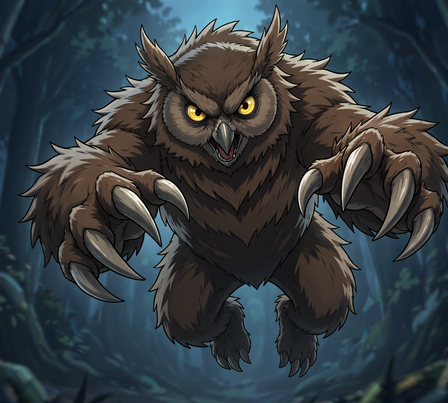
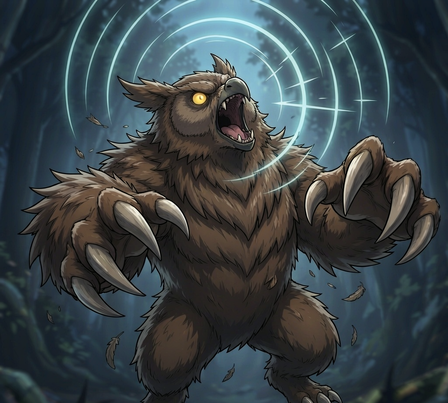
R519q 枭熊之怒改咆哮+声音特效

diff --git a/art_src/2026-11-08_敌人卡图寒霜枭熊R519p/tools/process_r519p.py b/art_src/2026-11-08_敌人卡图寒霜枭熊R519p/tools/process_r519p.py
@@ -38,8 +38,8 @@ TARGET = (448, 403)
 JOBS = {
     "9210": {"raw": "9210_frost_ward.png", "crop": (0, 55, 1024, 976),
              "wm": (760, 890, 1024, 1024)},   # 文字 y≈895 起，框上移到 890 覆盖顶部
-    "9212": {"raw": "9212_owlbear_fury.png", "crop": (0, 15, 1024, 936),
-             "wm": (872, 948, 1024, 1024)},   # 裁切底 936 已避开，无需修补
+    "9212": {"raw": "9212_owlbear_roar_v2.png", "crop": (0, 0, 1024, 921),
+             "wm": (872, 948, 1024, 1024)},   # 咆哮版v2：声波加粗醒目+身体完整，保声波，水印(y≥955)被裁掉，无需修补
 }
 
 

diff --git a/art_src/2026-11-08_敌人卡图寒霜枭熊R519p/README.md b/art_src/2026-11-08_敌人卡图寒霜枭熊R519p/README.md
@@ -15,17 +15,24 @@
 
 ## 9212 枭熊之怒（金 · 枭熊本能）
 
-- image1 = `assets/pics/9214.png`（敌方枭熊形象，只借角色设计，`input_fidelity=low`），
-  改赛璐璐 + 发怒扑击姿态（张嘴嘶吼、耳羽炸开、黄眼发光、前爪挥击）。
-- 裁切 `(0,15,1024,936)` → 448×403；水印在 y≈944 起，裁切底 936 已完全避开，无需修补。
+- 初版（R519p）：image1 = `assets/pics/9214.png`（敌方枭熊形象，只借角色设计），改赛璐璐 +
+  发怒扑击姿态（张嘴嘶吼、耳羽炸开、黄眼发光、前爪挥击）。裁 `(0,15,1024,936)`。
+- **R519q 咆哮版 v2（当前）**：用户反馈「做成枭熊在咆哮的状态，最好有声音特效」。
+  image1 = 初版 `raw/9212_owlbear_fury.png` 只借角色 + 画风（`input_fidelity=low`），
+  重出「仰头张嘴咆哮」，并从喙口放射**加粗高对比青白同心声波环 + 音浪弧 + 速度线**，
+  把「声音」视觉化。第一版咆哮（`9212_owlbear_roar.png`）声波太细、后脚掌贴底、
+  图鉴小卡不明显 → 弃用；第二版（`9212_owlbear_roar_v2.png`）声波加粗、四爪完整、
+  脚掌底 y≈961。裁 `(0,0,1024,921)` 保声波（声波外圈本已贴顶，属放射特效自然效果），
+  水印 y≥955 被裁掉，无需修补。
 
 ## 文件
 
-- `raw/9210_frost_ward.png`、`raw/9212_owlbear_fury.png` 原图
+- `raw/9210_frost_ward.png`、`raw/9212_owlbear_fury.png`（初版扑击）原图
+- `raw/9212_owlbear_roar.png`（咆哮第一版，废稿）、`raw/9212_owlbear_roar_v2.png`（咆哮第二版，采用）原图
 - `processed/9210.png`、`processed/9212.png` 处理中间产物
 - `tools/process_r519p.py` 处理脚本（`patch_from_left` 水平镜像水印修补）
 - `prompts.md` 出图提示词与参数
-- `_review/9210_gallery_1280.png`、`_review/9212_gallery_1280.png` 图鉴验收截图
+- `_review/9210_gallery_1280.png`、`_review/9212_gallery_1280.png`、`_review/9212_roar_v2_gallery_1280.png` 图鉴验收截图
 
 ## 教训
 

diff --git a/HANDOFF.md b/HANDOFF.md
@@ -1,4 +1,15 @@
-## 2026-11-08 R519p 敌人卡图：寒霜结界 + 枭熊之怒（当前最新）
+## 2026-11-08 R519q 枭熊之怒改咆哮 + 声音特效（当前最新）
+
+- 用户反馈：「枭熊之怒做成枭熊在咆哮的状态，最好有声音特效」。
+- 重出 `assets/pics/9212.png`（448×403）：仰头张嘴咆哮，从喙口放射加粗高对比青白同心声波环 +
+  音浪弧 + 速度线，把「声音」视觉化；黄眼发光，四爪完整。
+- 过程：第一版咆哮声波太细、后脚掌贴底、图鉴小卡不明显 → 弃用；第二版声波加粗、脚掌底 y≈961，
+  裁 `(0,0,1024,921)` 保声波（声波外圈本已贴顶，属放射特效自然效果），水印 y≥955 裁掉无需修补。
+- 图鉴赏收：`--group enemy --card 9212` 卡面正常、声波波纹可见、脚掌轻微贴边、无黄三角/水印、
+  属性与效果文本正确。
+- 归档：`art_src/2026-11-08_敌人卡图寒霜枭熊R519p/`（raw 含初版扑击 + 咆哮两版原图）。
+
+## 2026-11-08 R519p 敌人卡图：寒霜结界 + 枭熊之怒
 
 - 用户口径：「继续生成敌人的」—— 敌人待做剩 9210 寒霜结界、9212 枭熊之怒。
 - 新增 `assets/pics/9210.png`、`assets/pics/9212.png`（各 448×403）：均走「日式动漫赛璐璐、禁止写实」。

diff --git a/art_src/2026-11-08_敌人卡图寒霜枭熊R519p/prompts.md b/art_src/2026-11-08_敌人卡图寒霜枭熊R519p/prompts.md
@@ -64,3 +64,16 @@ NO card frame, NO border.
 ## 验收
 
 - 图鉴 `--group enemy --card 9210 / 9212`：卡图正常、无黄三角、无水印、属性与效果文本正确。
+
+## R519q · 9212 咆哮版 v2（image1 = 初版扑击图，只借角色+画风，input_fidelity=low）
+
+关键差异（相对初版扑击）：
+- 姿态：`head thrown back, beak wide open toward the top of the frame`（仰头张嘴咆哮）。
+- 声音特效视觉化：`from the wide-open beak radiates several THICK, BOLD pale-cyan-white
+  concentric shockwave arcs and sound-wave rings expanding upward and outward, plus a few sharp
+  jagged speed-lines ... Make the sound-wave arcs THICK and high-contrast so they stay clearly
+  visible even at small card size`。
+- 主体完整：`THE WHOLE CREATURE MUST FIT FULLY INSIDE THE FRAME ... all four paws fully visible
+  with clear margin below the feet and above the ear tufts`。
+- 裁 `(0,0,1024,921)` 保声波；声波外圈贴顶属放射特效自然效果，水印 y≥955 裁掉无需修补。
+- 第一版咆哮（`9212_owlbear_roar.png`）声波太细、后脚掌贴底 → 弃用。
